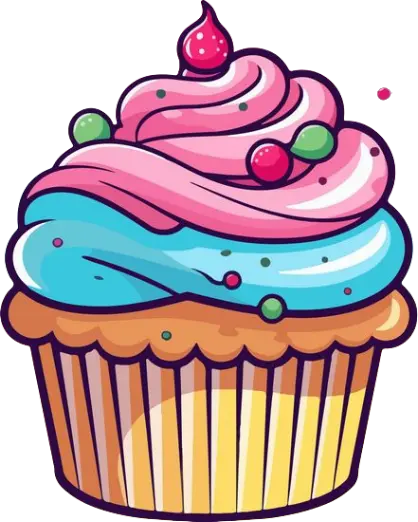
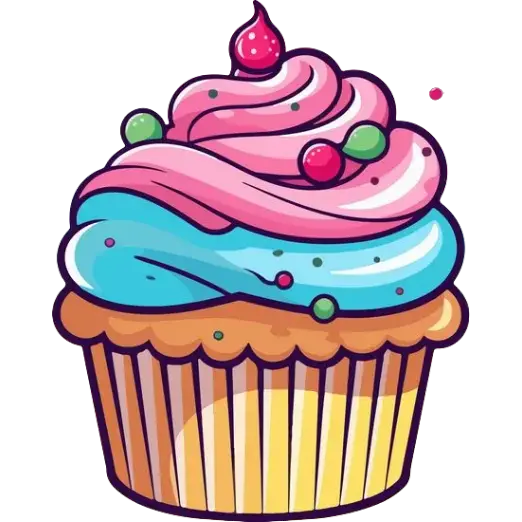
Fix: Category Images Reized

diff --git a/src/app/core/services/common/auth.service.ts b/src/app/core/services/common/auth.service.ts
@@ -1,5 +1,6 @@
 import {
   Injectable,
+  NgZone,
   Signal,
   WritableSignal,
   inject,
@@ -27,6 +28,7 @@ import { IAuthError } from '@models/error.interface';
 })
 export class AuthService extends BaseApiService {
   private readonly _router = inject(Router);
+  private readonly _ngZone = inject(NgZone);
   private readonly _storageService = inject(LocalStorageService);
   private readonly _userService = inject(UserService);
   private readonly _$isLoading: WritableSignal<boolean> = signal(false);
@@ -102,6 +104,9 @@ export class AuthService extends BaseApiService {
     });
   }
 
+  // TODO: Fix Console Warinings ->
+  // Navigation triggered outside Angular zone, did you forget to call 'ngZone.run()'?
+
   authenticateUser(userData: IUser): void {
     this._userService.setUserData(userData);
     this._storageService.setItem(KEY_STORAGE.DATA_USER, userData);
@@ -122,20 +127,22 @@ export class AuthService extends BaseApiService {
     googleAccounts.id.initialize({
       client_id: environment.GOOGLE_CLIENT_ID,
       callback: ({ credential: token }) => {
-        let authObservable: Observable<IUser>;
+        this._ngZone.run(() => {
+          let authObservable: Observable<IUser>;
 
-        if (authAction === 'LOGIN') {
-          authObservable = this.googleSignIn(token);
-        } else {
-          authObservable = this.googleSignUp(token);
-        }
+          if (authAction === 'LOGIN') {
+            authObservable = this.googleSignIn(token);
+          } else {
+            authObservable = this.googleSignUp(token);
+          }
 
-        authObservable.subscribe({
-          next: (user) => {
-            this._googleAuthSubject.next(user);
-            this._googleAuthSubject.complete();
-          },
-          error: (error) => this._googleAuthSubject.error(error),
+          authObservable.subscribe({
+            next: (user) => {
+              this._googleAuthSubject.next(user);
+              this._googleAuthSubject.complete();
+            },
+            error: (error) => this._googleAuthSubject.error(error),
+          });
         });
       },
     });
@@ -201,27 +208,29 @@ export class AuthService extends BaseApiService {
 
   authenticateByFacebook(authAction: AuthActionType): Observable<IUser> {
     return new Observable((observer) => {
-      FB.login(
-        async (result: IFacebookDialogResponse) => {
-          const token = result.authResponse.accessToken;
-          let authObservable: Observable<IUser>;
+      this._ngZone.run(() => {
+        FB.login(
+          async (result: IFacebookDialogResponse) => {
+            const token = result.authResponse.accessToken;
+            let authObservable: Observable<IUser>;
 
-          if (authAction === 'LOGIN') {
-            authObservable = this.facebookSignIn(token);
-          } else {
-            authObservable = this.facebookSignUp(token);
-          }
+            if (authAction === 'LOGIN') {
+              authObservable = this.facebookSignIn(token);
+            } else {
+              authObservable = this.facebookSignUp(token);
+            }
 
-          authObservable.subscribe({
-            next: (user) => {
-              observer.next(user);
-              observer.complete();
-            },
-            error: (error) => observer.error(error),
-          });
-        },
-        { scope: 'email' }
-      );
+            authObservable.subscribe({
+              next: (user) => {
+                observer.next(user);
+                observer.complete();
+              },
+              error: (error) => observer.error(error),
+            });
+          },
+          { scope: 'email' }
+        );
+      });
     });
   }
 

diff --git a/src/app/routes/auth/components/auth-form-container/auth-form-container.component.ts b/src/app/routes/auth/components/auth-form-container/auth-form-container.component.ts
@@ -4,6 +4,7 @@ import { SocialAuthActionsComponent } from '../social-auth-actions/social-auth-a
 import { AuthService } from '@coreServices/common/auth.service';
 import { IAuthError } from '@models/error.interface';
 import { AuthFormErrorComponent } from '../auth-form-error/auth-form-error.component';
+import { AuthActionType } from '@models/auth.interface';
 
 @Component({
   selector: 'app-auth-form-container',
@@ -14,6 +15,7 @@ import { AuthFormErrorComponent } from '../auth-form-error/auth-form-error.compo
 })
 export class AuthFormContainerComponent {
   @Input({ required: true }) title!: string;
+  @Input() authAction: AuthActionType = 'LOGIN';
 
   private readonly _authService = inject(AuthService);
   readonly $authError: Signal<IAuthError | null> =

diff --git a/src/app/core/layout/main-layout/components/navbar/navbar.component.html b/src/app/core/layout/main-layout/components/navbar/navbar.component.html
@@ -26,12 +26,13 @@
           @for (categoryMenuItem of categoriesMenu(); track
           categoryMenuItem.label) {
           <app-nav-menu-item [navMenuItem]="categoryMenuItem">
-            <figure class="relative flex items-center justify-center size-6">
+            <figure class="block relative size-6">
               <img
+                class="absolute w-full h-full inset-0 object-contain"
                 [ngSrc]="categoryMenuItem.icon!"
                 [alt]="'category-menu-icon-' + categoryMenuItem.label"
-                fill
-                priority
+                height="24"
+                width="24"
               />
             </figure>
           </app-nav-menu-item>

diff --git a/src/app/routes/auth/components/auth-form-header/auth-form-header.component.spec.ts b/src/app/routes/auth/components/auth-form-header/auth-form-header.component.spec.ts
@@ -1,0 +1,23 @@
+import { ComponentFixture, TestBed } from '@angular/core/testing';
+
+import { AuthFormHeaderComponent } from './auth-form-header.component';
+
+describe('AuthFormHeaderComponent', () => {
+  let component: AuthFormHeaderComponent;
+  let fixture: ComponentFixture<AuthFormHeaderComponent>;
+
+  beforeEach(async () => {
+    await TestBed.configureTestingModule({
+      imports: [AuthFormHeaderComponent]
+    })
+    .compileComponents();
+    
+    fixture = TestBed.createComponent(AuthFormHeaderComponent);
+    component = fixture.componentInstance;
+    fixture.detectChanges();
+  });
+
+  it('should create', () => {
+    expect(component).toBeTruthy();
+  });
+});

diff --git a/src/app/routes/auth/components/auth-form-container/auth-form-container.component.html b/src/app/routes/auth/components/auth-form-container/auth-form-container.component.html
@@ -8,9 +8,9 @@
     class="flex flex-col gap-6 items-center justify-center bg-white border rounded-2xl shadow-lg p-6 py-12 sm:px-12 w-full sm:w-[480px]"
   >
     @if ($authError()) {
-    <app-auth-form-error [error]="$authError()!"  class="w-full"/>
+    <app-auth-form-error [error]="$authError()!" class="w-full" />
     }
     <ng-content />
-    <app-social-auth-actions class="w-full" />
+    <app-social-auth-actions class="w-full" [authAction]="authAction" />
   </div>
 </section>

diff --git a/src/app/routes/auth/components/auth-form-header/auth-form-header.component.ts b/src/app/routes/auth/components/auth-form-header/auth-form-header.component.ts
@@ -1,0 +1,13 @@
+import { Component, Input } from '@angular/core';
+import { LogoComponent } from '@components/logo/logo.component';
+
+@Component({
+  selector: 'app-auth-form-header',
+  standalone: true,
+  imports: [LogoComponent],
+  templateUrl: './auth-form-header.component.html',
+  styleUrl: './auth-form-header.component.scss',
+})
+export class AuthFormHeaderComponent {
+  @Input({ required: true }) title!: string;
+}

diff --git a/src/app/routes/auth/pages/register-page/register-page.component.html b/src/app/routes/auth/pages/register-page/register-page.component.html
@@ -1,4 +1,4 @@
-<app-auth-form-container title="Sign in to your account">
+<app-auth-form-container title="Sign in to your account" authAction="REGISTER">
   <form
     [formGroup]="form"
     (ngSubmit)="signUp()"

diff --git a/src/app/routes/auth/pages/login-page/login-page.component.html b/src/app/routes/auth/pages/login-page/login-page.component.html
@@ -1,4 +1,4 @@
-<app-auth-form-container title="Sign in to your account">
+<app-auth-form-container title="Sign in to your account" authAction="LOGIN">
   <form
     [formGroup]="form"
     (ngSubmit)="signIn()"

diff --git a/src/app/routes/auth/components/auth-form-header/auth-form-header.component.html b/src/app/routes/auth/components/auth-form-header/auth-form-header.component.html
@@ -1,0 +1,4 @@
+<div class="flex flex-col items-center gap-6">
+  <app-logo />
+  <h2 class="font-semibold text-2xl">{{ title }}</h2>
+</div>
